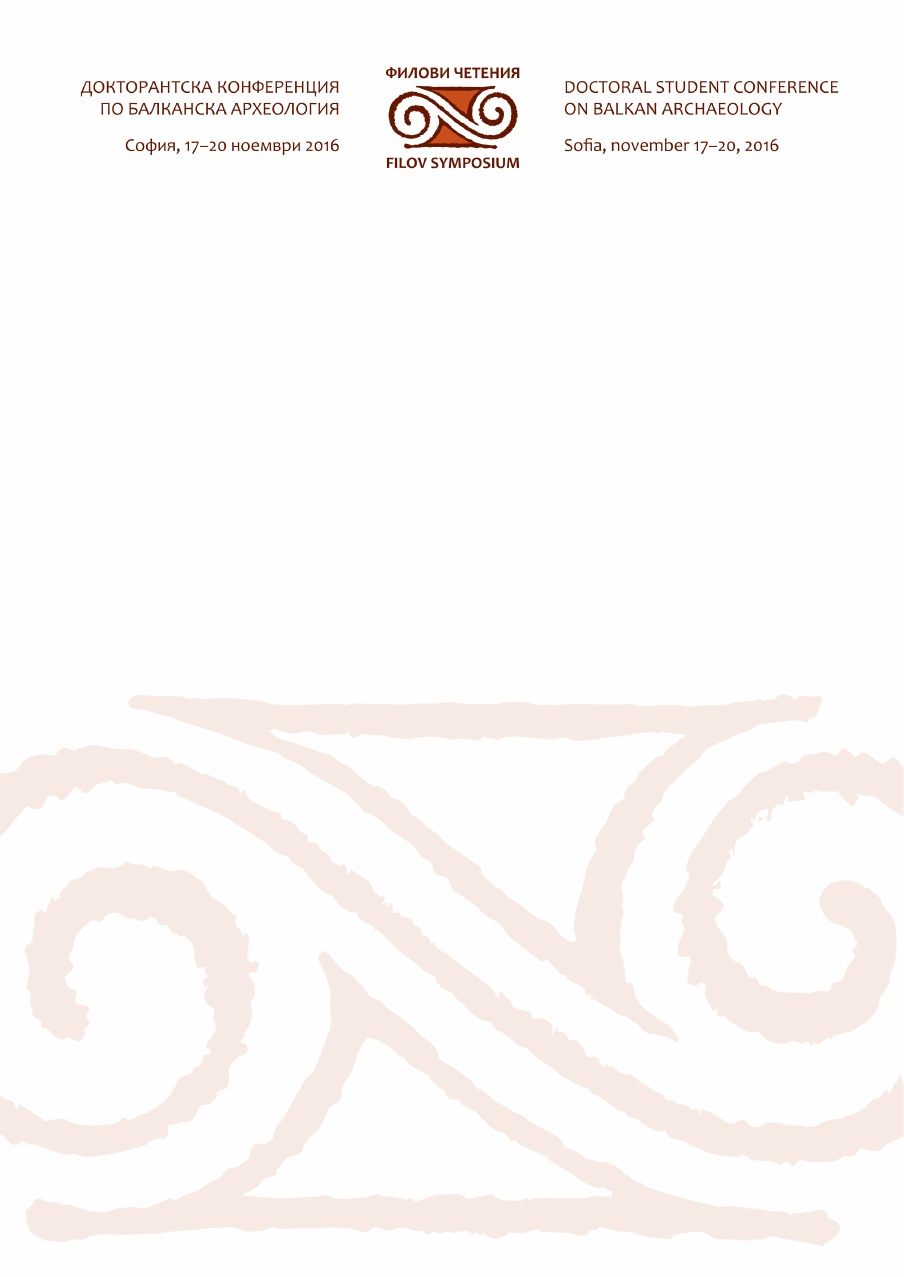
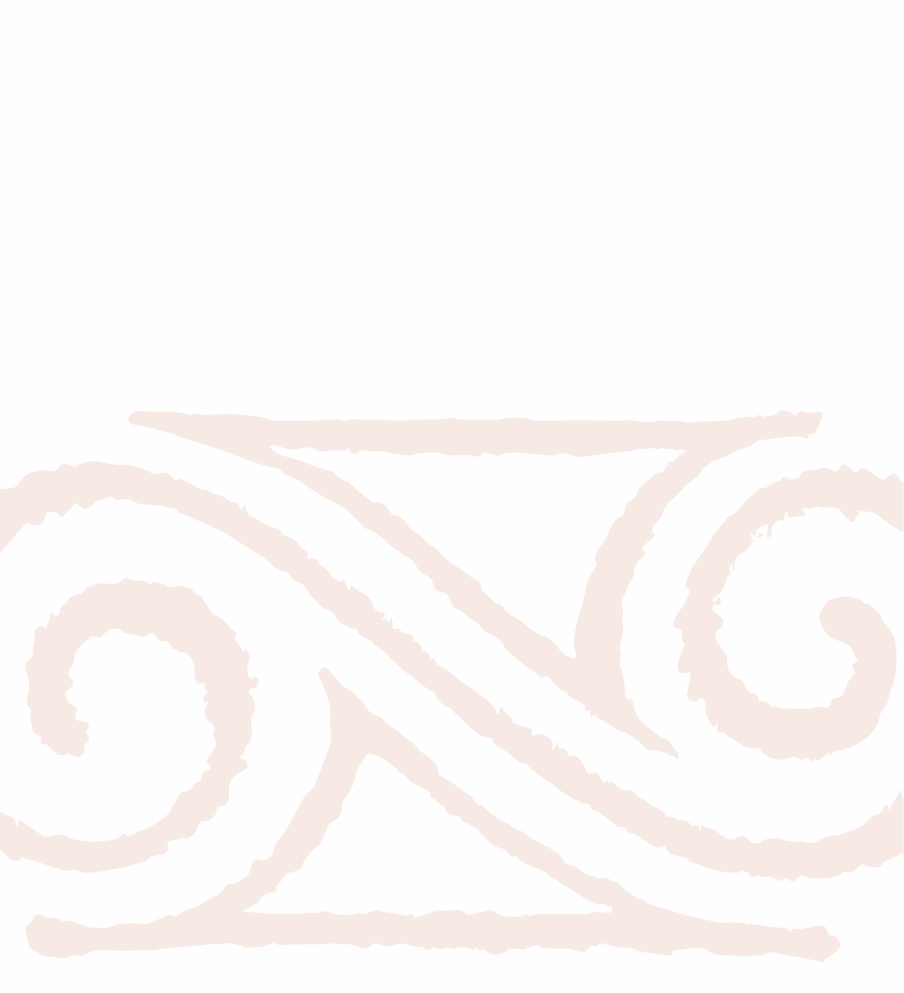
Changes...

diff --git a/css/main.scss b/css/main.scss
@@ -51,3 +51,19 @@ $on-laptop:        800px;
         "layout",
         "syntax-highlighting"
 ;
+
+body {
+    background-image: url("../images/background.jpg");
+    background-repeat: no-repeat;
+    background-position: center;
+}
+
+.site-header {
+    border-top-width: 0px;
+    border-bottom-width: 1px;
+}
+
+.site-footer {
+    border-top-width: 0px;
+    border-bottom-width: 0px;
+}

diff --git a/_includes/header.html b/_includes/header.html
@@ -1,8 +1,8 @@
 <header class="site-header">
 
   <div class="wrapper">
-
-    <a class="site-title" href="{{ site.baseurl }}/">{{ site.title }}</a>
+    <a class="site-title" href="{{ site.baseurl }}/">
+      <img src="../images/header.jpg"></a>
 
     <nav class="site-nav">
       <a href="#" class="menu-icon">

diff --git a/call-for-papers.md b/call-for-papers.md
@@ -1,13 +1,13 @@
 ---
 layout: page
-title: Call For Papers
+title: Call for Papers
 permalink: /call-for-papers/
 ---
 
 
 Dear colleagues,
 
-The Department of Archaeology of Sofia University St. Kliment Ohridski and the National Institute of Archaeology with Museum of the Bulgarian Academy of Sciences jointly organize an international doctoral student conference. It will take place in Sofia, Bulgaria from *the 17th to the 20th of November 2016*. The conference topic this year is *Balkan Archaeology*. Our goal is to facilitate working contacts between the youngest researchers of Balkan past. Presentations will be grouped in three sections: *Prehistory, Classical Archaeology, and Mediaeval Archaeology*.
+The Department of Archaeology of Sofia University St. Kliment Ohridski and the National Institute of Archaeology with Museum of the Bulgarian Academy of Sciences jointly organize an international doctoral student conference. It will take place in Sofia, Bulgaria from **the 17th to the 20th of November 2016**. The conference topic this year is **Balkan Archaeology**. Our goal is to facilitate working contacts between the youngest researchers of Balkan past. Presentations will be grouped in three sections: **Prehistory, Classical Archaeology, and Mediaeval Archaeology**.
 
 All doctoral students of archaeology working in this field are welcome. We recommend that participants discuss the subjects of their presentations with their supervisors. Presentation abstracts (400–500 words) will be collected in advance and will be accessible before the start of the conference. The time allotted to each presentation will be 20 minutes.
 
@@ -19,10 +19,20 @@ Participation fee: €20.
 
 Deadlines:
 
-Participation requests: *July 30*.
+Participation requests: **July 30**.
 
 (Each participation request must contain the name and status of the participant, the name of the university or other institution of higher education, and the presentation title.)
 
-Abstract submissions: *October 10*.
+Abstract submissions: **October 10**.
 
 Contact: [balkan.arch.16@gmail.com](mailto:balkan.arch.16@gmail.com)
+
+<div style="float: right;">
+  <i>Assoc. prof. Dr P. Georgieva</i>,
+  <br>
+  Head of Department of Archeology, Sofia University
+</div>
+
+*Assoc. prof. Dr L. Vagalinski*,
+<br>
+Director of NAIM-BAS

diff --git a/index.md b/index.md
@@ -2,6 +2,18 @@
 layout: default
 ---
 
+# What
+
+Write some text here.
+
+# When
+
+Write some text here.
+
+# Where
+
+Write some text here.
+
 <div class="home">
 
   <ul class="post-list">
